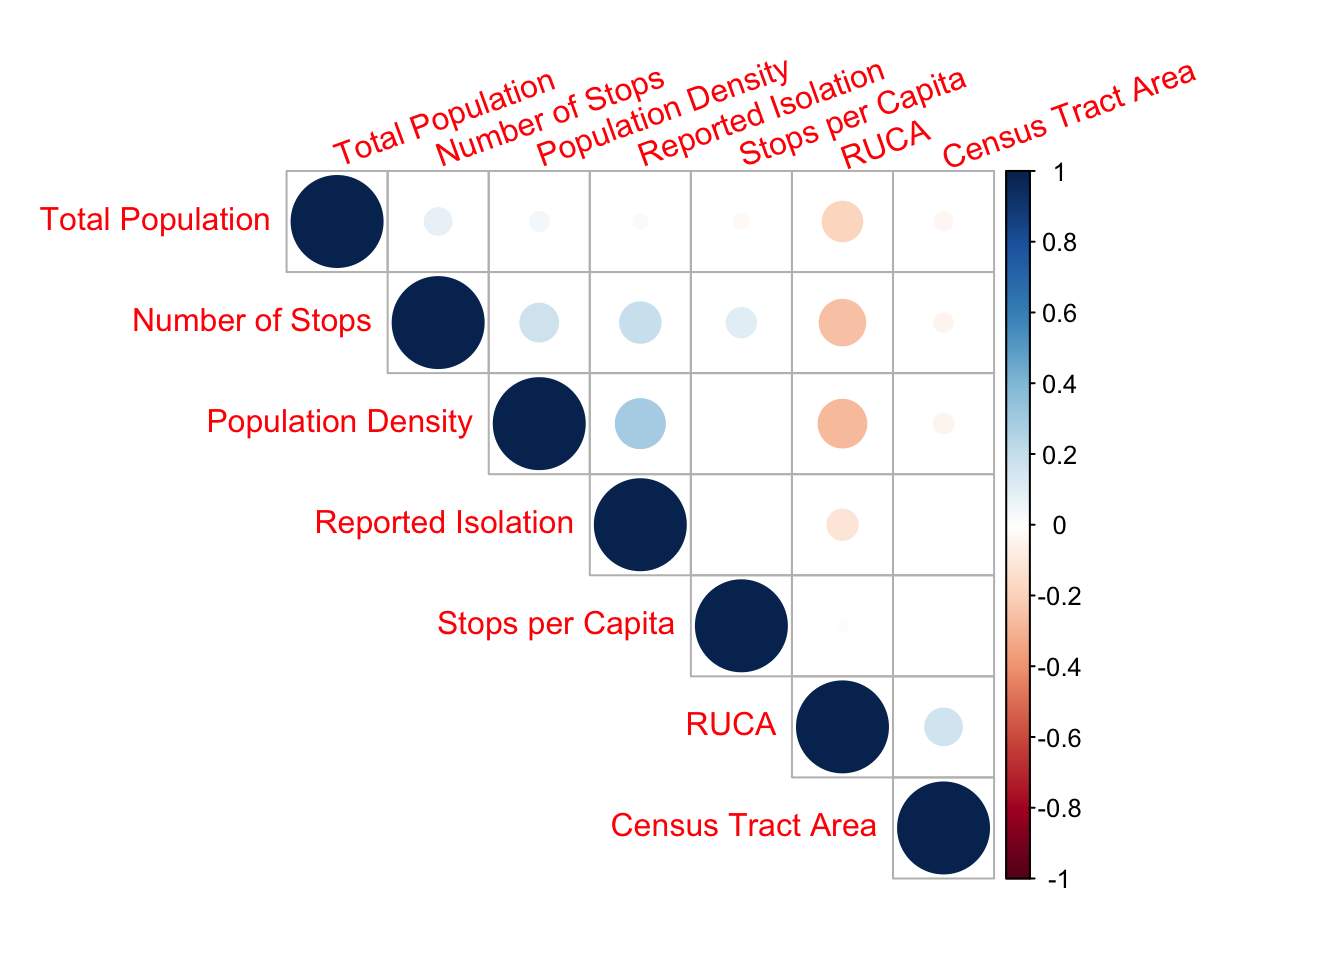
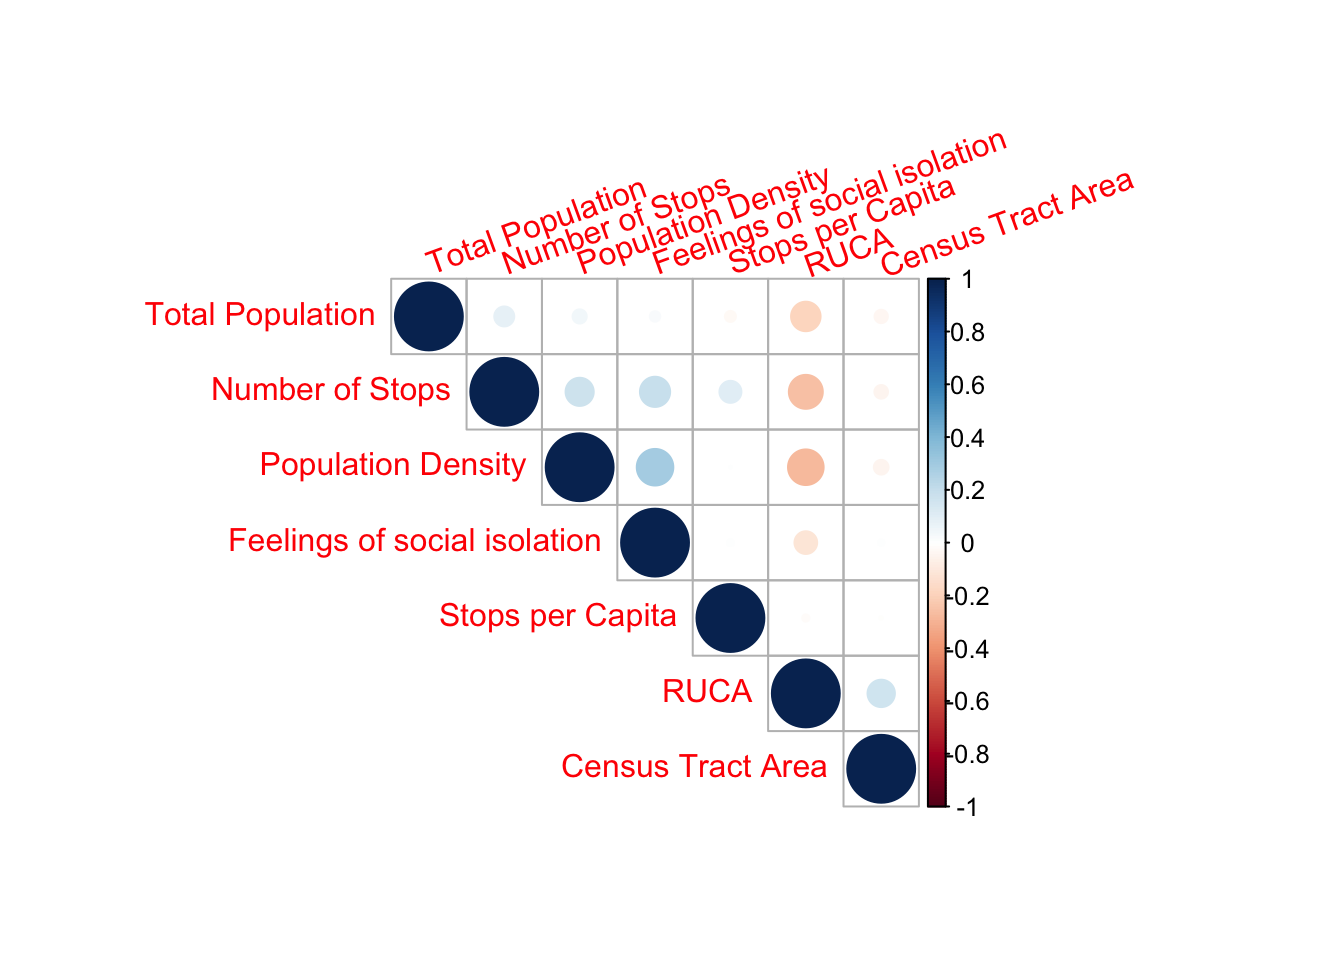
Minor edits to data dict and title

diff --git a/MidTermReportEDA.html b/MidTermReportEDA.html
@@ -8,7 +8,7 @@
 
 <meta name="author" content="Naomi Buell and Richie Rivera">
 
-<title>Does public transportation decrease loneliness and social isolation?</title>
+<title>Does public transportation decrease social isolation?</title>
 <style>
 code{white-space: pre-wrap;}
 span.smallcaps{font-variant: small-caps;}
@@ -66,7 +66,7 @@ div.csl-indent {
 
 <header id="title-block-header" class="quarto-title-block default">
 <div class="quarto-title">
-<h1 class="title">Does public transportation decrease loneliness and social isolation?</h1>
+<h1 class="title">Does public transportation decrease social isolation?</h1>
 </div>
 
 
@@ -857,7 +857,7 @@ div.csl-indent {
 </section>
 <section id="correlation" class="level3">
 <h3 class="anchored" data-anchor-id="correlation">Correlation</h3>
-<p>Figure 1 below shows that feelings of social isolation among adults (named <code>data_value</code>) is most correlated with population (<code>density_per_sqmi</code>); the positive correlation indicates that the denser an area is, the higher the rate of feeling social isolation, which seems counterintuitive. Social isolation is also positively associated with the count of transit stops (<code>count_ntm_stops</code>). Lastly, social isolation is slightly negatively correlated with RUCA code (<code>ruca2</code>), where a higher prevalence of this feeling tends to be associated with a more metropolitan area.</p>
+<p>Figure 1 below shows that feelings of social isolation among adults is most correlated with population; the positive correlation indicates that the denser an area is, the higher the rate of feeling social isolation, which seems counterintuitive. Social isolation is also positively associated with the count of transit stops. Lastly, social isolation is slightly negatively correlated with RUCA code, where a higher prevalence of this feeling tends to be associated with a more metropolitan area.</p>
 <div class="cell">
 <div class="cell-output-display">
 <div>
@@ -875,20 +875,9 @@ div.csl-indent {
 <section id="data-dictionary" class="level2">
 <h2 class="anchored" data-anchor-id="data-dictionary">Data Dictionary</h2>
 <dl>
-<dt>Feelings of social isolation among adults</dt>
+<dt>Feelings of social isolation among adults (<code>data_value</code>)</dt>
 <dd>
-<p>probability among adults who report always/usually/sometimes feeling socially isolated</p>
-</dd>
-<dd>
-<p>Variable summary: Loneliness is defined as the discrepancy between a person’s desired and actual social relationships and is sometimes considered synonymous with social isolation, although they are two distinct concepts. Loneliness is an emotional response to social isolation, while social isolation is an objective measure of the lack of social interactions and relationships. Previous studies show that social isolation and loneliness are common sources of chronic stress in adults, and are common at the end of life, affecting 1 in 4 older adults. Positive relationships and interactions with family, friends, co-workers, and community members can have a protective impact on individual health and well-being, and these relationships can also help mitigate the negative impacts of challenges that people face (e.g., living in an unsafe neighborhood, trouble affording housing or food). Past research shows that people with high levels of social isolation are at higher risk of developing chronic conditions (e.g., depression, cardiovascular disease, hypertension, cancer) and have a higher risk of mortality.</p>
-</dd>
-<dt>Lack of reliable transportation in the past 12 months among adults</dt>
-<dd>
-<p>Nearly 2% of the U.S. population delayed medical care because they did not have transportation in 2017. Lack of available, convenient, or reliable transportation can affect a person’s ability to consistently access health care services, which can lead to delays in healthcare and medication use that can subsequently impact overall health. In addition, the inability to access reliable transportation to work, schools, and grocery stores is associated with higher rates of unemployment, poverty, and chronic illness. People with lower incomes and uninsured people are more likely to experience transportation barriers. Limited public transportation infrastructure in a neighborhood leaves people without access to vehicles lacking in reliable transportation options. Offering free or reimbursed public transit or taxi costs, connecting individuals to transportation, and policies that improve the safety and accessibility of sidewalks and bike lanes can help improve transportation access.</p>
-</dd>
-<dt>Lack of social and emotional support among adults</dt>
-<dd>
-<p>Positive relationships and interactions with family, friends, co-workers, and community members can have a protective impact on individual health and well-being, and these relationships can also help mitigate the negative impacts of challenges that people face (e.g., living in an unsafe neighborhood, trouble affording housing or food). Past research shows that people with high levels of social isolation (lack of interactions with others or the wider community)&nbsp;are at higher risk of developing chronic conditions (e.g., depression, cardiovascular disease, hypertension) and have a higher risk of mortality.</p>
+<p>Probability among adults who report always/usually/sometimes feeling socially isolated</p>
 </dd>
 <dt>count_ntm_stops</dt>
 <dd>
@@ -911,8 +900,8 @@ div.csl-indent {
 <p>Primary RUCA Code</p>
 <table class="caption-top table">
 <colgroup>
-<col style="width: 22%">
-<col style="width: 77%">
+<col style="width: 25%">
+<col style="width: 75%">
 </colgroup>
 <thead>
 <tr class="header">
@@ -973,8 +962,8 @@ div.csl-indent {
 <p>Secondary RUCA codes, 2010</p>
 <table class="caption-top table">
 <colgroup>
-<col style="width: 19%">
-<col style="width: 80%">
+<col style="width: 23%">
+<col style="width: 76%">
 </colgroup>
 <thead>
 <tr class="header">
